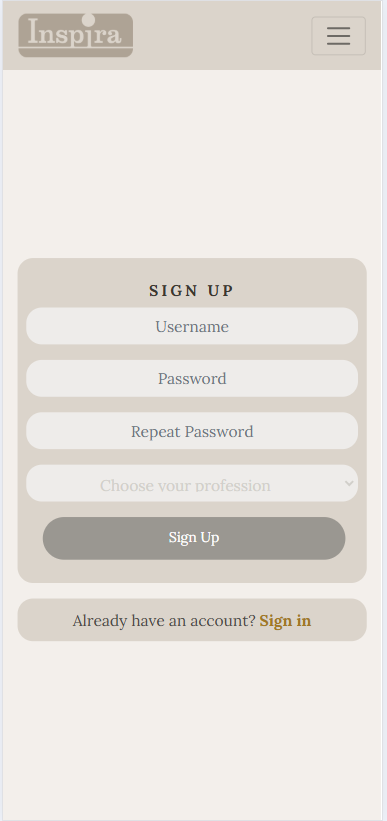
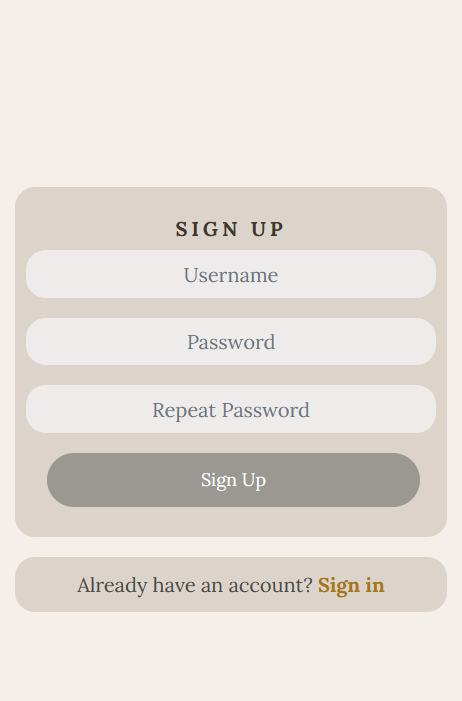
Change currentUserContext to fix the bug

diff --git a/src/contexts/CurrentUserContext.js b/src/contexts/CurrentUserContext.js
@@ -1,7 +1,8 @@
-import { createContext, useContext, useEffect, useMemo, useState } from "react";
+import { createContext, useContext, useEffect, useState } from "react";
 import axios from "axios";
 import { axiosReq, axiosRes } from "../api/axiosDefaults";
 import { useHistory } from "react-router";
+import { removeTokenTimestamp, shouldRefreshToken } from "../utils/utils";
 
 export const CurrentUserContext = createContext();
 export const SetCurrentUserContext = createContext();
@@ -18,7 +19,7 @@ export const CurrentUserProvider = ({ children }) => {
       const { data } = await axiosRes.get("dj-rest-auth/user/");
       setCurrentUser(data);
     } catch (err) {
-      // console.log(err);
+      console.error("Error fetching current user:", err);
     }
   };
 
@@ -26,46 +27,50 @@ export const CurrentUserProvider = ({ children }) => {
     handleMount();
   }, []);
 
-  useMemo(() => {
-    axiosReq.interceptors.request.use(
+  useEffect(() => {
+    const requestInterceptor = axiosReq.interceptors.request.use(
       async (config) => {
-        try {
-          await axios.post("/dj-rest-auth/token/refresh/");
-        } catch (err) {
-          setCurrentUser((prevCurrentUser) => {
-            if (prevCurrentUser) {
-              history.push("/signin");
-            }
-            return null;
-          });
-          return config;
+        if (shouldRefreshToken()) {
+          try {
+            const { data } = await axios.post("/dj-rest-auth/token/refresh/");
+            const newAccessToken = data.access;
+            localStorage.setItem("accessToken", newAccessToken);
+            config.headers.Authorization = `Bearer ${newAccessToken}`;
+          } catch (err) {
+            setCurrentUser(null);
+            removeTokenTimestamp();
+            history.push("/signin");
+          }
         }
         return config;
       },
-      (err) => {
-        return Promise.reject(err);
-      }
+      (err) => Promise.reject(err)
     );
 
-    axiosRes.interceptors.response.use(
+    const responseInterceptor = axiosRes.interceptors.response.use(
       (response) => response,
       async (err) => {
         if (err.response?.status === 401) {
           try {
-            await axios.post("/dj-rest-auth/token/refresh/");
-          } catch (err) {
-            setCurrentUser((prevCurrentUser) => {
-              if (prevCurrentUser) {
-                history.push("/signin");
-              }
-              return null;
-            });
+            const { data } = await axios.post("/dj-rest-auth/token/refresh/");
+            const newAccessToken = data.access;
+            localStorage.setItem("accessToken", newAccessToken);
+            err.config.headers.Authorization = `Bearer ${newAccessToken}`;
+            return axios(err.config); // Retry the failed request
+          } catch (refreshErr) {
+            setCurrentUser(null);
+            removeTokenTimestamp();
+            history.push("/signin");
           }
-          return axios(err.config);
         }
         return Promise.reject(err);
       }
     );
+
+    return () => {
+      axiosReq.interceptors.request.eject(requestInterceptor);
+      axiosRes.interceptors.response.eject(responseInterceptor);
+    };
   }, [history]);
 
   return (

diff --git a/README.md b/README.md
@@ -113,7 +113,9 @@ The users have different permissions depending on if they are logged in or not.
 A logged out user will have access to the following
 
 - Home Page
-- View other users profiles and posts
+- Info page
+- View other users posts
+- See popular profiles
 - Sign In Page
 - Sign Up Page
 
@@ -123,17 +125,17 @@ A logged in user will have access to the following
 
 - Home Page
 - Sign Out Page
-- News Feed Page
+- Info page
+- Create post
 - Liked Page
 - Comment
 - Edit own profile
 - Edit/delete own comments
 - Change password
-- View other users profiles and posts
+- View other users profiles' details and posts
 - Follow/unfollow users
 - Like posts
 - See popular profiles
-- See information about the user
 
 ## Existing Features
 
@@ -161,6 +163,7 @@ A logged in user will have access to the following
 
   - Home
   - Info
+  - Create post
   - Liked
   - Sign out
   - Avatar
@@ -243,7 +246,7 @@ On mobile devices, this section is integrated into the search bar, prioritizing 
 
 The Sign In form allows users to log in by providing their username and password. If the credentials are incorrect, a clear error message notifies the user.
 
-The Sign Up form requires users to input a username, password, confirm their password, and select a profession. This emphasizes that the platform is tailored for specific professionals, discouraging random sign-ups.
+The Sign Up form requires users to input a username, password and confirm their password. 
 
 Both forms feature an accompanying image, enhancing the visual appeal. On smaller screens, the image is hidden to maintain a clean and responsive design.
 
@@ -309,9 +312,40 @@ When the user chooses to delete, a confirmation popup will appear to verify the 
 
 ![Comment edit](src/assets/readme_images/comment-delete.png)
 
-### Notifications
+### Feedback and Validation Across Forms
 
-![Notifications](src/assets/readme_images/posts-card.png)
+The platform is designed with a user-centric approach, ensuring clear feedback and validation across all forms to enhance the user experience and maintain a high standard of professionalism.
+
+**Sign-Up Form**
+- Includes fields for username, password, and repeat password.
+- Feedback ensures passwords are at least 8 characters, not too common, and match.
+
+![Notifications](src/assets/readme_images/signup-not1.png)
+![Notifications](src/assets/readme_images/signup-not2.png)
+![Notifications](src/assets/readme_images/signup-not3.png)
+
+**Sign-In Form**
+- Includes fields for username and password.
+- Feedback ensures that there is a user with provided credentials, otherwise gives a clear feedback
+
+![Notifications](src/assets/readme_images/signin-not.png)
+
+**Profile Edit Form**
+- Profession defaults to "Architect" when creating a new profile and if in edit form no profession has been chosen, it changes back to the last choice.
+This feature will be improved to require user input in sign up form in the future.
+
+The years of experiense can not be a negative number.
+
+![Notifications](src/assets/readme_images/profile-edit-not.png)
+
+**Create and Edit Post Form**
+- Requires a title, style, and picture. Users receive immediate feedback for missing fields or empty posts.
+
+Create post form
+![Notifications](src/assets/readme_images/post-create-not.png)
+
+Post Edit form
+![Notifications](src/assets/readme_images/post-edit-not.png)
 
 ### Not found
 The page has been designed to show a clear information to the user. It is custom designed for Inspira app.
@@ -337,6 +371,22 @@ In the project there is a problem with editing the post as the post is not possi
 
 ### Pinning Posts for Inspiration
 Usually designers and architects want to be able to like and pin posts for future inspirations. In the future this function will be devided in two buttons and funtions. Like will only handle one action, to like a project while pin will save the post for the future as not every post which we like we use for the future inspiration. It will also have a possibility to create folders to keep different projects't inspirations to make user experience better.
+
+### Future Improvements for Signup Form
+The upcoming improvements to the signup form will enhance user registration by ensuring that the platform attracts only relevant professionals. Here's a breakdown of the changes:
+
+**Required Fields:**
+Profession: This will be a required field, ensuring that users identify themselves as professionals in a specific field. By making this a compulsory field, it sets a clear tone that the platform is for industry professionals and not for random sign-ups.
+
+Name and Surname: The user will be required to enter both their first and last name. This adds credibility and creates a more professional environment from the start.
+
+**Optional Fields:**
+Website: Users will have the option to provide a personal or business website, which will help build their profile and provide more context about their work.
+Location: While not mandatory, users can choose to add their location. This could foster a more personalized experience, helping users connect with others in their region or field.
+
+Experience: An optional field that lets users add details about their professional experience. This can serve to further highlight their expertise and qualifications.
+
+By implementing these fields, the signup process will help identify qualified professionals while also allowing users the flexibility to showcase additional details. These changes will create a more curated and professional environment, increasing the platform's appeal to its target audience.
 
 # Technologies Used
 
